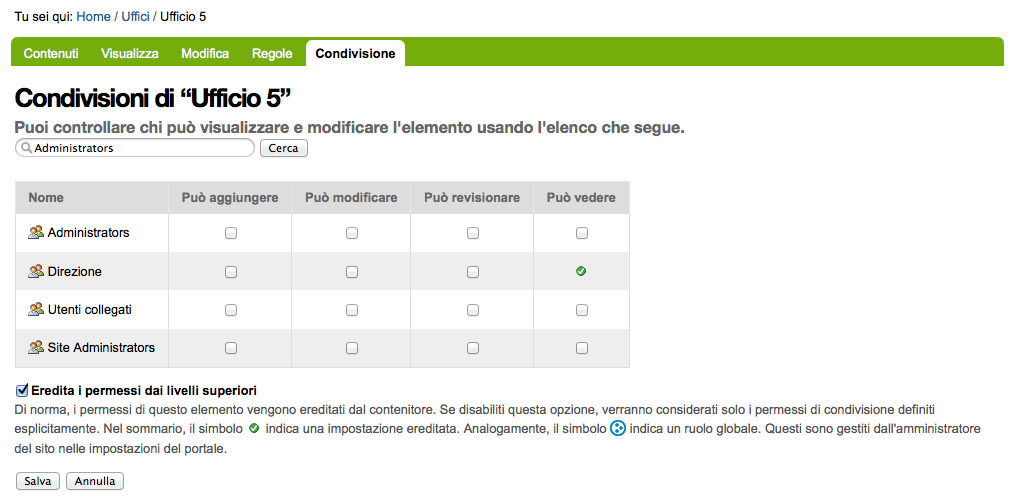
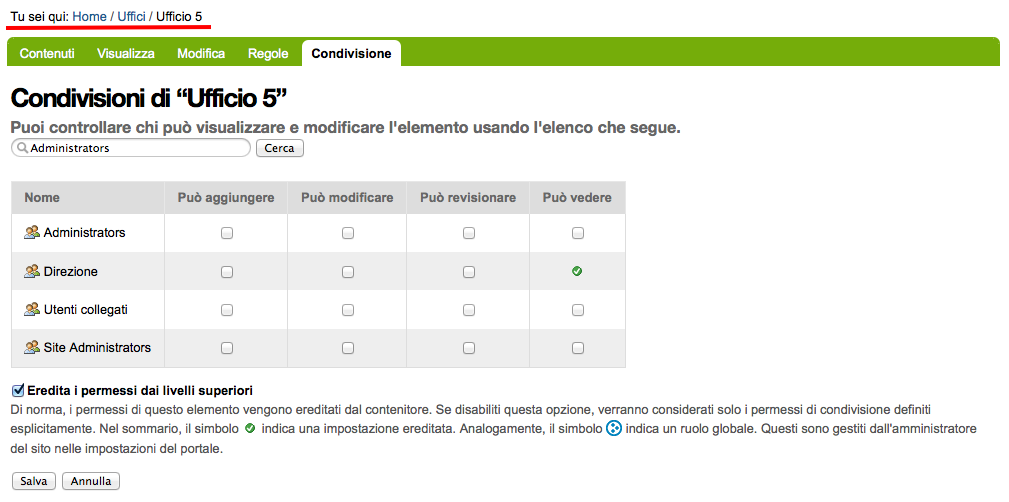
going on with roles

diff --git a/docs/source/_templates/book_layout.html b/docs/source/_templates/book_layout.html
@@ -15,6 +15,7 @@
 {%- set reldelim2 = reldelim2 is not defined and ' |' or reldelim2 %}
 {%- set render_sidebar = (not embedded) and (not theme_nosidebar|tobool) and
                          (sidebars != []) %}
+{% set css_files = css_files + ['_static/book_html.css'] %}
 {%- set url_root = pathto('', 1) %}
 {# XXX necessary? #}
 {%- if url_root == '#' %}{% set url_root = '' %}{% endif %}

diff --git a/docs/source/_static/book_html.css b/docs/source/_static/book_html.css
@@ -1,0 +1,20 @@
+/**
+ * Custom HTML styles
+ */
+
+p.logo {
+    padding: 0.3em;
+    background-color: white;
+}
+
+.section p img {
+    margin: 0;
+}
+
+div.figure {
+    padding: 0.3em;
+    border: 1px dotted #e0e0e0;
+}
+div.figure p.caption {
+    text-align: center;
+}

diff --git a/docs/source/conf.py b/docs/source/conf.py
@@ -115,7 +115,7 @@ html_logo = '_static/plone.png'
 # The name of an image file (within the static path) to use as favicon of the
 # docs.  This file should be a Windows icon file (.ico) being 16x16 or 32x32
 # pixels large.
-#html_favicon = None
+html_favicon = 'favicon.ico'
 
 # Add any paths that contain custom static files (such as style sheets) here,
 # relative to this directory. They are copied after the builtin static files,

diff --git a/docs/source/roles.rst b/docs/source/roles.rst
@@ -366,13 +366,13 @@ pagine siano il modo giusto di procedere.
     **No!** Evitate i ruoli globali.
 
 I ruoli globali sono dannosi perché molto spesso nascondono una tra le più grandi funzionalità di
-Plone: il pannello della condivisione.
+Plone: **la condivisione di un contenuto o una sezione del sito**.
 
 Per di più, i ruoli globali sono **assoluti** e non possono in nessun modo essere bloccati.
 Questo significa che se assegnate un ruolo globale ad un utente o un gruppo, quell'utente o gruppo
 avrà il potere assegnatogli in tutto il sito, senza eccezioni.
 
-Per concludere: non usate mai i ruoli globali, soprattutto per i singoli utenti.
+Per concludere: sconsiglio di usare i ruoli globali, soprattutto per i singoli utenti.
 
 Eccezioni utili
 ~~~~~~~~~~~~~~~
@@ -386,14 +386,14 @@ l'utente debba avere accesso a tutte le aree del sito).
 
 La seconda eccezione vale per alcuni gruppi, come indicato quando si sono presentati i gruppi
 predefiniti di Plone.
-Ci sono alcuni gruppi che, per natura, definiscono poteri globali: l'ipotetico gruppo dei "Redattori
-Ufficio 5" non deve probabilmente avere nessun potere globale, ma un gruppo come gli Amministratori
-del Sito la cosa è diversa.
+Ci sono alcuni gruppi che, per natura, definiscono poteri globali: l'ipotetico gruppo dei
+"Redattori Ufficio 5" non deve probabilmente avere nessun potere globale, ma per un gruppo come gli
+Amministratori del Sito la cosa è diversa.
 
 L'unica eccezione che sconsiglio sempre è l'assegnazione di altri poteri che non siano quelli di
 *Collaboratore* a qualunque utente.
-Se ci possono essere eccezioni per i gruppi, consiglio piuttosto di creare un gruppo dove porre
-questo utente e dare i poteri al gruppo.
+Se ci possono essere eccezioni per i gruppi, per gli utenti no. Consiglio piuttosto di creare un
+gruppo dove porre questo utente e dare i poteri al gruppo.
 
 I ruoli locali (condivisione)
 -----------------------------
@@ -408,25 +408,30 @@ di lavoro dell'"Ufficio 5", all'interno di una macro-area che racchiude tutti gl
 
    *La vista della condivisione di un elemento*
 
-La descrizione "*Puoi controllare chi può visualizzare e modificare l'elemento usando l'elenco che
-segue.*" che leggete nell'immagine di certo facilita a comprendere che cosa si può fare in questa
-vista ma è limitativa perché vale solo con i ruoli predefiniti di Plone.
-Da questo modulo di possono controllare tutti i ruoli, anche quelli non compresi in una installazione
-base di Plone.
+Fate particolare attenzione alle *briciole di pane* (breadcrumbs), che ci permettono sempre di
+comprendere la nostra posizione all'interno del sito.
 
-Il pannello della condivisione mostra sempre una tabella riassuntiva sullo stato dei ruoli assegnati
-nel contesto.
-La lista può anche essere inizialmente vuota ma si popola automaticamente in presenza di impostazioni
-di condivisione, oppure non appena l'utente usa il campo di ricerca utenti e gruppi.
+La descrizione "*Puoi controllare chi può visualizzare e modificare l'elemento usando l'elenco che
+segue.*" che leggete nell'immagine, di certo facilita a comprendere che cosa si può fare in questa
+vista ma è limitativa perché vale solo per la configurazione base di Plone.
+
+Nella realtà da questo modulo si possono controllare tutti i ruoli, anche quelli non compresi in
+una installazione base.
+
+Il pannello della condivisione mostra sempre una tabella riassuntiva sullo stato dei ruoli
+assegnati nel contesto.
+La lista può anche essere inizialmente vuota ma si popola automaticamente in presenza di
+impostazioni di condivisione, oppure non appena l'utente usa il campo di ricerca utenti e gruppi.
 
 A questo punto l'utente che ha accesso a questo modulo può assegnare permessi semplicemente
-selezionando le spunte disponobili.
+selezionando le caselle di spunta disponibili.
 
-Come avrete notato, non tutte le spunte sono sempre attive.
-Il testo di aiuto in basso è molto utile a comprendere perché alcune spunte possono essere inattive.
+Come avrete notato, non tutte le spunte sono sempre attive, ma vengono a volte sostituite da icone.
+Il testo di aiuto in basso è molto utile a comprendere perché alcune spunte possono essere
+inattive.
 
 I **ruoli globali** (|global_role_icon|) sono quelli discussi alla sezione precedente. Se un dato
-utente o gruppo ha dei ruoli locali non avrebbe nessun effetto poter assegnare quello stesso ruolo
+utente o gruppo ha dei ruoli globali non avrebbe nessun effetto poter assegnare quello stesso ruolo
 anche nel contesto corrente, quindi l'azione è disabilitata.
 
 .. |global_role_icon| image:: _static/global_role_icon.png
@@ -439,4 +444,116 @@ I **ruoli ereditati** (|inherit_role_icon|) verranno discussi meglio tra poco.
 
 Ereditarietà dei ruoli locali
 ~~~~~~~~~~~~~~~~~~~~~~~~~~~~~
+
+I ruoli assegnati agli utenti in Plone vengono di norma ereditati.
+Questo permette di fornire ruoli locali ad utenti in una sezione e (ovviamente) avere questi stessi
+ruoli in tutto il sottoalbero.
+
+Nell'esempio di poco fa, il gruppo "*Direzione*" all'interno della cartella "*Ufficio 5*" ha un
+ruolo ereditato da un qualche livello superiore.
+Non possiamo sapere da questa pagina da quale livello si ottenga questa ereditarietà; la logica ci
+dice che molto probabilmente il gruppo ha un ruolo assegnato nella cartella padre (*Uffici*) ma
+questo non è importante.
+
+Anche in questo caso, come succede per i ruoli globali, il controllo per assegnare il ruolo può
+essere inaccessibile e sostituito da un'icona, e questo per lo stesso motivo: non avrebbe effetto
+assegnare lo stesso ruolo ad un utente o un gruppo che già lo possiede per effetto
+dell'ereditarietà
+
+C'è però un comportamento molto interessante, che è il motivo scatenante per cui consiglio i ruoli
+locali a discapito dei ruoli globali: i ruoli locali possono essere bloccati.
+
+.. figure:: _static/sharing-view-no-inherit.png
+   :alt: Condivisione (ereditarietà bloccata)
+
+   *La vista della condivisione di un elemento con blocco dell'ereditarietà dei ruoli*
+
+La spunta "*Eredita i permessi dai livelli superiori*" ha proprio l'effetto descritto: se viene
+rimossa si viene ad annullare l'ereditarietà dei ruoli *locali* (e non globali) da un qualunque
+livello superiore.
+
+A questo punto il gruppo "*Direzione*" diventa un gruppo come gli altri.
+Potremmo anche ri-assegnare lo stesso potere che aveva prima del blocco dell'ereditarietà e non
+sarebbe nemmeno un comportamento tanto bizzarro (perché magari era nel nostro interesse che il
+gruppo non avesse quel ruolo in altri uffici, ma non in questo).
+
+Il blocco dell'ereditarietà permette di creare sezioni protette all'interno di aree del sito:
+
+* una cartella altamente riservata, invisibile e inaccessibile a tutti gli utenti a cui abbiamo
+  dato poter di poter vedere la nostra sezione della intranet
+* un documento in sola lettura che nessun utente con potere di modificare possa toccare
+* una sezione dove gli amministratori del sito posizionano documentazione relativa ad un gruppo
+  di persone, ma non accessibile al gruppo stesso
+
+Condivisione del documento predefinito
+~~~~~~~~~~~~~~~~~~~~~~~~~~~~~~~~~~~~~~
+
+Un errore comune è quello di finire erroneamente nella condivisione di un documento usato come
+vista predefinita di una cartella e non nella cartella stessa.
+
+Visto che nel 90% dei casi questo è un errore, Plone ci avverte del problema con un messaggio.
+
+.. figure:: _static/sharing-view-default-page.png
+   :alt: Condivisione di una pagina predefinita
+
+   *Il messaggio di avvertimento in caso di condivisione dei permessi su una pagina predefinita*
+
+Questo comportamento potrebbe anche diventare un'opportunità, probabilmente legata al blocco dei
+ruoli locali descritti poco fa.
+
+Ruoli locali come fossero globali
+---------------------------------
+
+Verrà ora descritto come poter avere nel proprio sito Plone lo stesso comportamento relativo ai
+ruoli globali pur mantenendo la possibilità di bloccare l'ereditarietà.
+
+Quello che basta fare è usare la condivisione di Plone sulla radice del sito (come descritto alla
+sezione precedente: fate attenzione a non essere finiti in condivisione della pagina predefinita
+del sito).
+In questo modo avete il meglio dei due mondi:
+
+* I ruoli sono assegnati ad utenti o gruppi in tutto il sito
+* In qualunque momento potete bloccare l'ereditarietà dei ruoli in specifiche sezioni del sito
+
+La "traduzione" dei ruoli locali
+--------------------------------
+
+Fin'ora non abbiamo accennato nulla sul fatto che sembra esserci una grande differenza tra che
+cosa viene visualizzato nella gestione dei ruoli globali e nella vista di condivisione per
+assegnare ruoli locali.
+
+.. figure:: _static/roles-from-global.png
+   :alt: Ruoli dalla gestione gruppi e utenti
+
+   *I ruoli globali, come sono presentati dalla gestione utenti e gruppi*
+
+Avrete già notato come nella configurazione del sito vengano mostrati quasi tutti i ruoli che
+sono stati descritti nella relativa sezione.
+Sono esclusi tutti i ruoli definiti da Zope tranne *Manager* ma sono inclusi tutti i ruoli definiti
+a livello Plone.
+Questa vista ha quindi la particolarità di **mostrare automaticamente i nuovi ruoli** che potreste
+andare a definire.
+
+Lo stesso non succede per la vista di condivisione, dove potrebbe addittura sembrare che non siano
+mostrati *ruoli* ma *permessi*.
+
+.. figure:: _static/roles-from-sharing.png
+   :alt: Ruoli dalla condivisione
+
+   *I ruoli locali, come sono presentati dalla vista condivisione*
+
+In realtà questo non è vero.
+Sempre per semplificare la vista agli utenti che si avvicinano a Plone per la prima volta e per
+aumentare l'usabilità del modulo, dalla versione 3 di Plone la condivisione è stata modificata nel
+seguente modo:
+
+* non mostra tutti i ruoli, ma solo quelli realmente utili per eseguire la condivisione
+* non mostra i nomi dei ruoli, ma una generica descrizione di "cosa il ruolo fa"
+
+Quindi:
+
+* "**Può aggiungere**" è per il "*Contributore*"
+* "**Può modificare**" è per "*Editor*"
+* "**Può revisionare**" è per il "*Revisore*"
+* "**Può vedere**" è per il "*Lettore*"
 

diff --git a/docs/source/intro.rst b/docs/source/intro.rst
@@ -91,7 +91,7 @@ queste differenze di tecnologia *non* saranno evidenziate nel libro.
 __ http://zope.org/
 __ http://pypi.python.org/pypi/Products.CMFCore
 
-Riferimenti alle versioni utilizzati
+Riferimenti alle versione utilizzata
 ====================================
 
 Quanto mostrato è applicabile alla versione 4 di Plone (specificatamente: `Plone 4.2.x`__), ma sono

diff --git a/README.rst b/README.rst
@@ -35,3 +35,8 @@ Per generare il libro in PDF::
 
     % make latexpdf
 
+Versione HTML online
+====================
+
+La versione aggiornata e online del libro è ospitata all'indirizzo
+http://plone-worfklow-e-sicurezza.readthedocs.org
